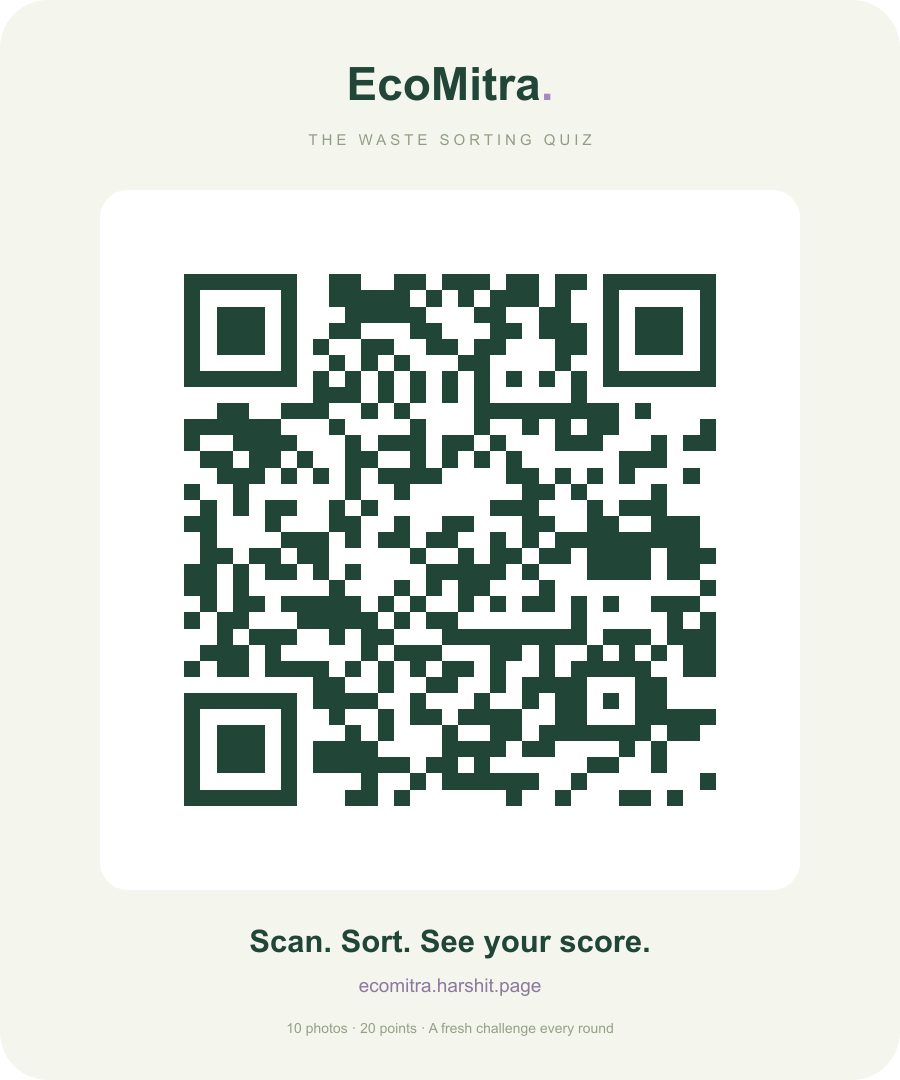
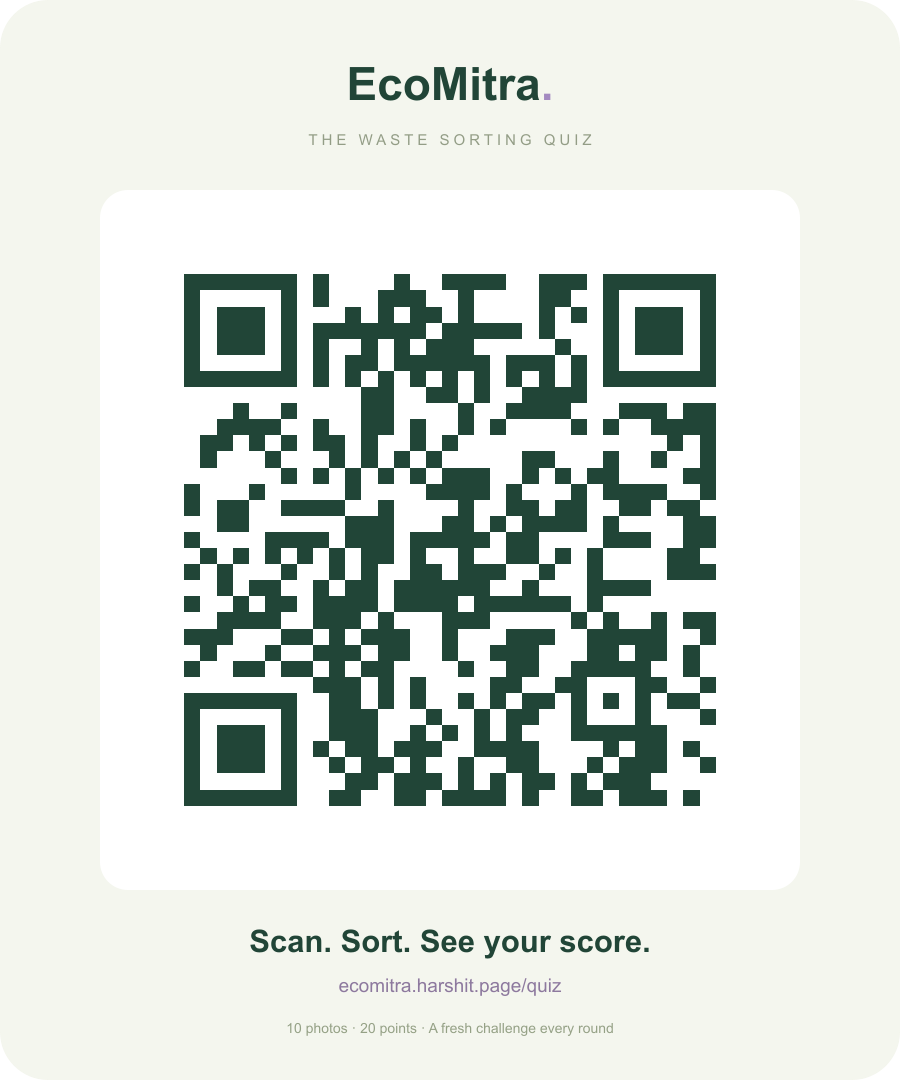
fix: serve landing at EcoMitra root and point quiz QR to quiz

Changed region(s): [[0.1867, 0.2444, 0.8089, 0.7639], [0.4044, 0.8861, 0.6222, 0.9167], [0.7778, 0.7028, 0.8089, 0.7333]]

diff --git a/web-app/next.config.ts b/web-app/next.config.ts
@@ -3,9 +3,6 @@ const config: NextConfig = {
   poweredByHeader: false,
   devIndicators: false,
   turbopack: { root: process.cwd() },
-  async rewrites(){return {beforeFiles:[
-    {source:"/",has:[{type:"host",value:"ecomitra.harshit.page"}],destination:"/quiz"},
-  ]}},
   async headers(){return [
     {source:"/:path*",headers:[
       {key:"X-Content-Type-Options",value:"nosniff"},

diff --git a/web-app/src/components/ui/resizable-navbar.tsx b/web-app/src/components/ui/resizable-navbar.tsx
@@ -14,6 +14,7 @@ const links = [
   { name: "How it works", href: "#how-it-works" },
   { name: "Plans", href: "#plans" },
   { name: "For helpers", href: "#helpers" },
+  { name: "Quiz", href: "/quiz" },
 ];
 export default function ResizableNavbar() {
   const [compact, setCompact] = useState(false),

diff --git a/docs/waste-quiz.md b/docs/waste-quiz.md
@@ -18,9 +18,9 @@ Tests verify every asset exists, valid answer options, exactly 5/2/3 across 100 
 
 ## EcoMitra domain and QR
 
-The host-specific Next.js rewrite routes `https://ecomitra.harshit.page/` directly to `/quiz`; the existing application domain keeps its normal home page. Public page branding is EcoMitra. Existing internal database identifiers, native helper identifiers, certificate IDs and authentication domains are retained for compatibility.
+`https://ecomitra.harshit.page/` serves the landing page. `https://ecomitra.harshit.page/quiz` serves the standalone quiz; no host-specific root rewrite is used. Public page branding is EcoMitra. Existing internal database identifiers, native helper identifiers, certificate IDs and authentication domains are retained for compatibility.
 
-Printable QR assets: `web-app/public/assets/ecomitra-quiz-qr.svg` and `.png`. They encode `https://ecomitra.harshit.page` with high error correction and a four-module quiet zone. The artwork surrounds the intact code rather than covering its data modules. The standalone page provides a QR download link. DNS must point the new subdomain to Vercel before this QR destination works publicly.
+Printable QR assets: `web-app/public/assets/ecomitra-quiz-qr.svg` and `.png`. They encode `https://ecomitra.harshit.page/quiz` with high error correction and a four-module quiet zone. The artwork surrounds the intact code rather than covering its data modules. The standalone page provides a QR download link. DNS must point the new subdomain to Vercel before this QR destination works publicly.
 
 Scanner results also show independent biodegradability and potential-recyclability properties, including unknown and mixed cases, at scan/group level. The provider supplies these within the same classification request. Legacy records remain readable; an identification correction invalidates the original environmental claims. Potential recycling is not a local acceptance guarantee.
 
@@ -33,3 +33,5 @@ Provider compatibility fix: a live API comparison returned HTTP 400 for nested p
 Final scanner verification: the actual production prompt and repaired schema processed a supplied banana-peel photograph successfully (HTTP 200, STOP, valid schema, food_waste, biodegradable) in 4195 ms. This is one compatibility smoke, not an accuracy benchmark. All 74 unit tests and the production build passed after the schema repair.
 
 Scanner presentation: display one primary label, prioritising Special collection when handling requires it, then supported Recyclable, Biodegradable or Non-biodegradable properties. Unknown/mixed evidence stays internal and displays the concrete action Separate for sorting. It does not become a fabricated recycling or biodegradability claim. The helper sorts such items at collection.
+
+Routing correction: the QR destination was updated to `/quiz` so the root URL can remain the EcoMitra landing page. Reprint the updated QR artwork rather than using the earlier homepage-targeting copy.
